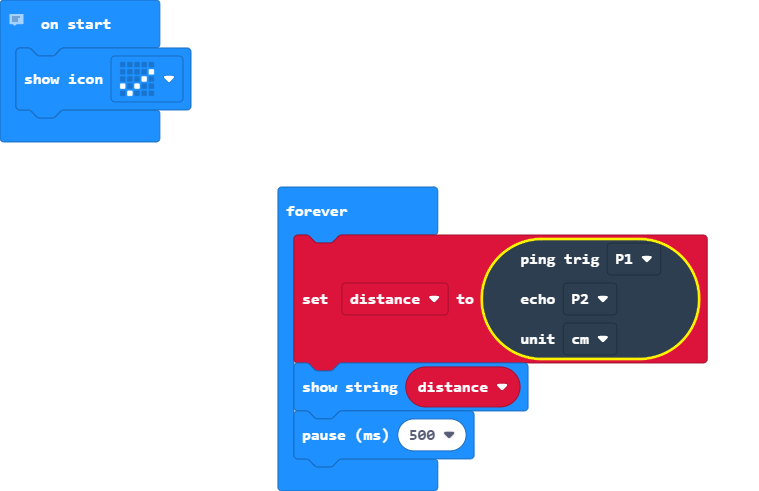
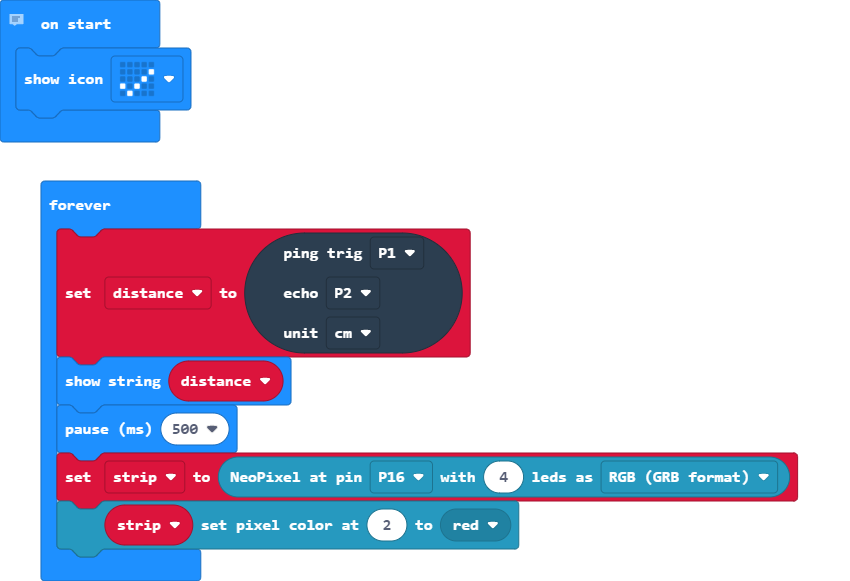
first commit

diff --git a/main.ts b/main.ts
@@ -3,6 +3,7 @@
 // 
 // This program detects how far something is
 // 
+let strip: neopixel.Strip = null
 let distance = 0
 basic.showIcon(IconNames.Yes)
 basic.forever(function () {
@@ -13,4 +14,6 @@ basic.forever(function () {
     )
     basic.showString("" + (distance))
     basic.pause(500)
+    strip = neopixel.create(DigitalPin.P16, 4, NeoPixelMode.RGB)
+    strip.setPixelColor(2, neopixel.colors(NeoPixelColors.Red))
 })
